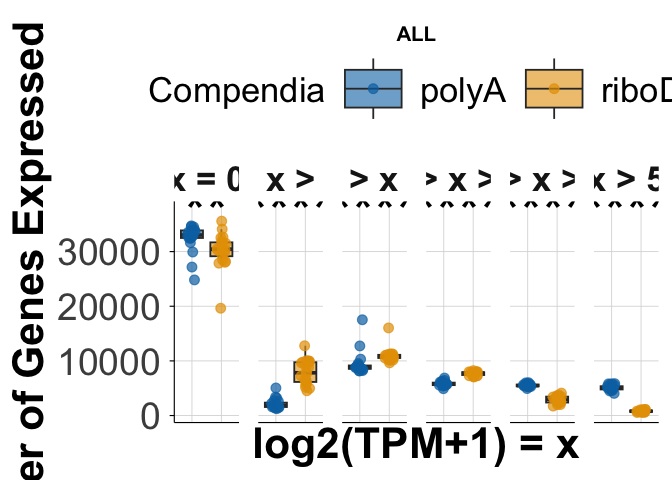
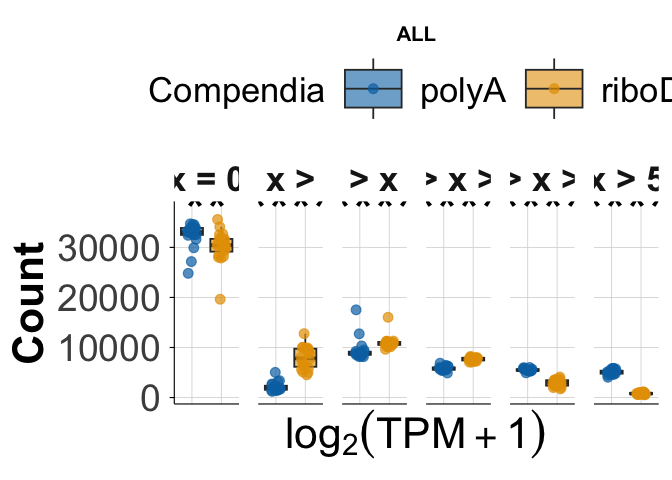
fig1D log2(TPM+1) update
subscripted 2

diff --git a/Fig_1/Fig1D/Fig1D.md b/Fig_1/Fig1D/Fig1D.md
@@ -385,6 +385,7 @@ combined_counts <- bind_rows(
   ALL_polyA_counts, 
   AML_riboD_counts, 
   AML_polyA_counts)
+#write_tsv(combined_counts, "../../output_data/Fig1D/combined_counts.tsv.gz")
 ```
 
 Custom theme
@@ -492,6 +493,10 @@ print(all_stats)
      9 aRMS    0.1-0.99          0.189         0.500    0.0187       2.31e-14
     10 aRMS    1-2.99            0.937         0.0934   0.000000776  9.67e-12
     # ℹ 26 more rows
+
+``` r
+#write_tsv(all_stats, "../../output_data/Fig1D/all_stats.tsv.gz")
+```
 
 selecting correct test
 
@@ -686,6 +691,10 @@ sig_bins_all
 | AML | \>5 | 4944, 4610, 4620, 4809, 4818, 5257, 4981, 4967, 4775, 5215, 4359, 4810, 4895, 4560, 3962, 4507, 4351, 4483, 4911 | 842, 1211, 1219, 1341, 927, 723, 1025, 672, 703, 1278, 1094, 954, 1063, 1433, 732, 791, 788, 824, 970, 972 | 0.0000000 | student_t | 0.0000000 | \*\*\*\* |
 
 ``` r
+write_tsv(sig_bins_all, "../../output_data/Fig1D/sig_bins_all.tsv.gz")
+```
+
+``` r
 facet_labels <- c(
   "0" = "x = 0",
   "0-0.09" = "0 > x > 0.1",
@@ -742,10 +751,11 @@ Fig1D <- map(diseases, function(d) {
     scale_color_compendia() +
 #    coord_cartesian(ylim = c(0, y_star * 1.1)) +
     labs(
-      title = paste(d),
-      x = "log2(TPM+1) = x",
-      y = "Number of Genes Expressed"
+      title = paste(d)
+      # x = "log2(TPM+1) = x",
+      # y = "Number of Genes Expressed"
     ) +
+    xlab(bquote(log[2](TPM+1))) +
     theme_minimal() +
     theme_1d() +
     theme(
@@ -840,10 +850,11 @@ Fig1D_all <- map(diseases, function(d) {
     scale_color_compendia() +
 #    coord_cartesian(ylim = c(0, y_star * 1.1)) +
     labs(
-      title = paste(d),
-      x = "log2(TPM+1) = x",
-      y = "Number of Genes Expressed"
+      title = paste(d)
+      # x = "log2(TPM+1) = x",
+      # y = "Number of Genes Expressed"
     ) +
+    xlab(bquote(log[2](TPM+1))) +
     theme_minimal() +
     theme_1d() +
     theme(
@@ -913,8 +924,8 @@ FigS3
 ![](Fig1D_files/figure-commonmark/FigS3-1.png)
 
 ``` r
-ggsave("../../Figures/FigS3.png", FigS3, width = 20, height = 36, dpi = 500)
-ggsave("../../Figures/FigS3.tif", FigS3, width = 20, height = 36, dpi = 500)
+ggsave("../../Figures/FigS3.png", FigS3, width = 20, height = 36, dpi = 300)
+ggsave("../../Figures/FigS3.tif", FigS3, width = 20, height = 36, dpi = 300)
 ```
 
 Session Info
@@ -933,7 +944,7 @@ sessioninfo::session_info()
      collate  en_US.UTF-8
      ctype    en_US.UTF-8
      tz       America/Los_Angeles
-     date     2026-06-25
+     date     2026-07-07
      pandoc   3.8.3 @ /Applications/RStudio.app/Contents/Resources/app/quarto/bin/tools/aarch64/ (via rmarkdown)
      quarto   1.9.36 @ /Applications/RStudio.app/Contents/Resources/app/quarto/bin/quarto
 
